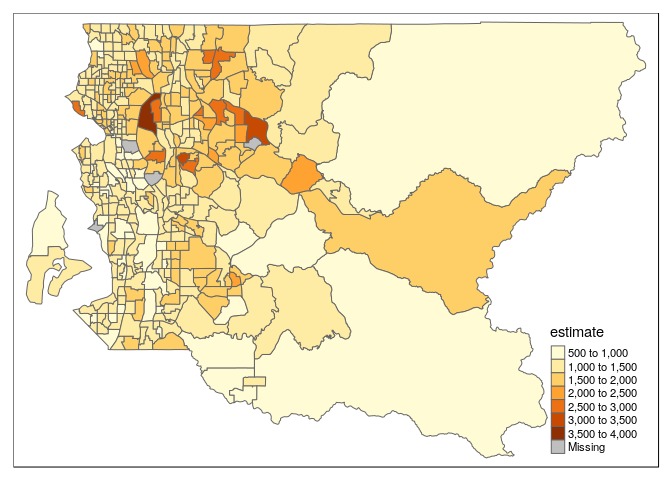
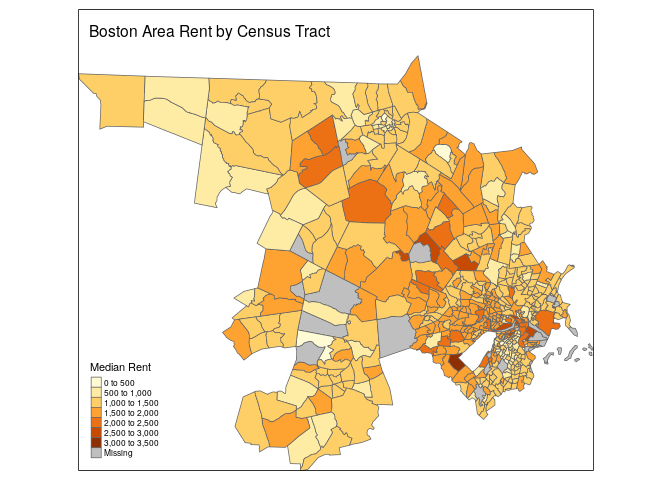
boston

diff --git a/Geospatial_Analysis.md b/Geospatial_Analysis.md
@@ -17,7 +17,7 @@ c("B23025\_005E", \# labor force size 'B01003\_001E', \# population 'B25056\_001
 library(tidyverse)
 library(tidycensus) # census data
 library(ggplot2)
-library(sf)
+library(sf) # geospatial methods
 library(tmap) # thematic mapping
 library(viridis) # color scheme
 
@@ -37,18 +37,21 @@ options(tigris_use_cache = TRUE)
 # qtm(us, fill = "estimate")
 
 
-# Rent in Seattle
-sea <- get_acs(geography = "tract", 
+# Rent in Boston
+bos <- get_acs(geography = "tract", 
               variables = "B25064_001E",  # median gross rent
-              state = "WA", 
-              county = "King", 
+              state = "MA", 
+              county = c("Suffolk",'Middlesex'), 
               geometry = TRUE)
 ```
 
     ## Please note: `get_acs()` now defaults to a year or endyear of 2016.
 
 ``` r
-qtm(sea, fill = "estimate")
+qtm(bos, fill = "estimate",fill.title='Median Rent',
+    title='Boston Area Rent by Census Tract',
+    scale=0.75) +
+  tm_layout(inner.margins=c(0,0,.1,0),main.title.position='center',legend.position=c('left','bottom'))
 ```
 
 ![](Geospatial_Analysis_files/figure-markdown_github/locale-1.png)
